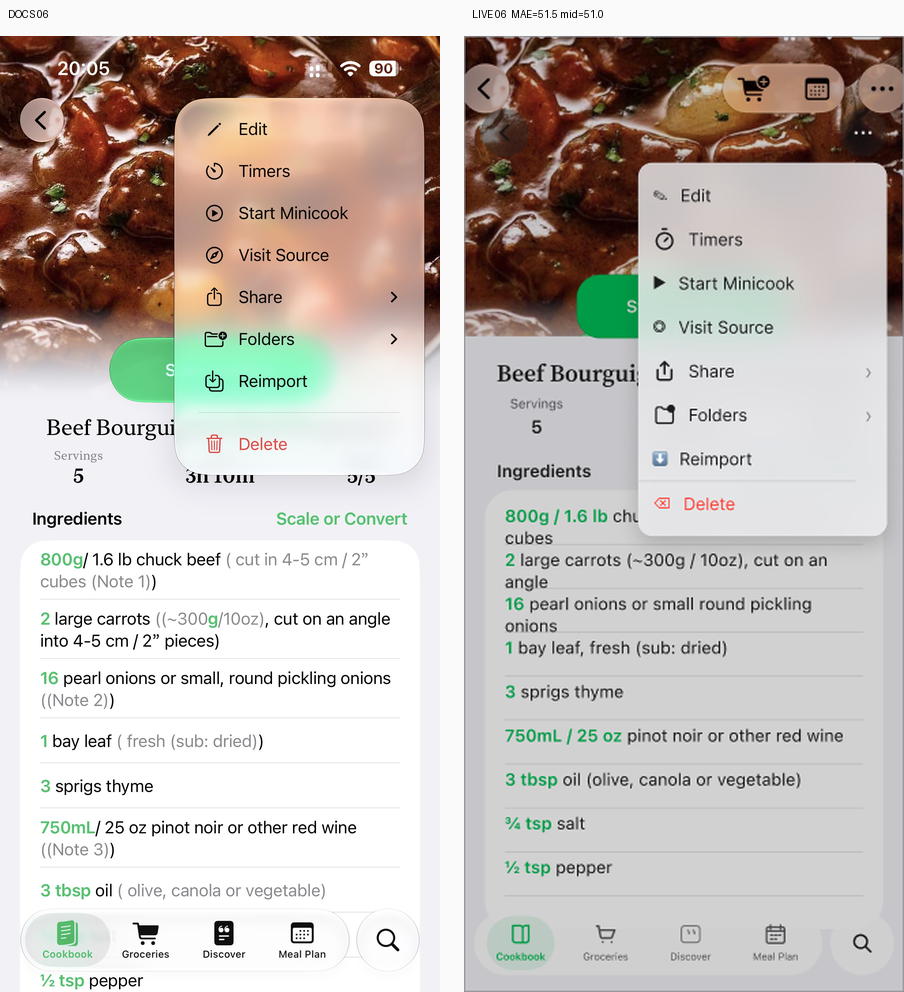
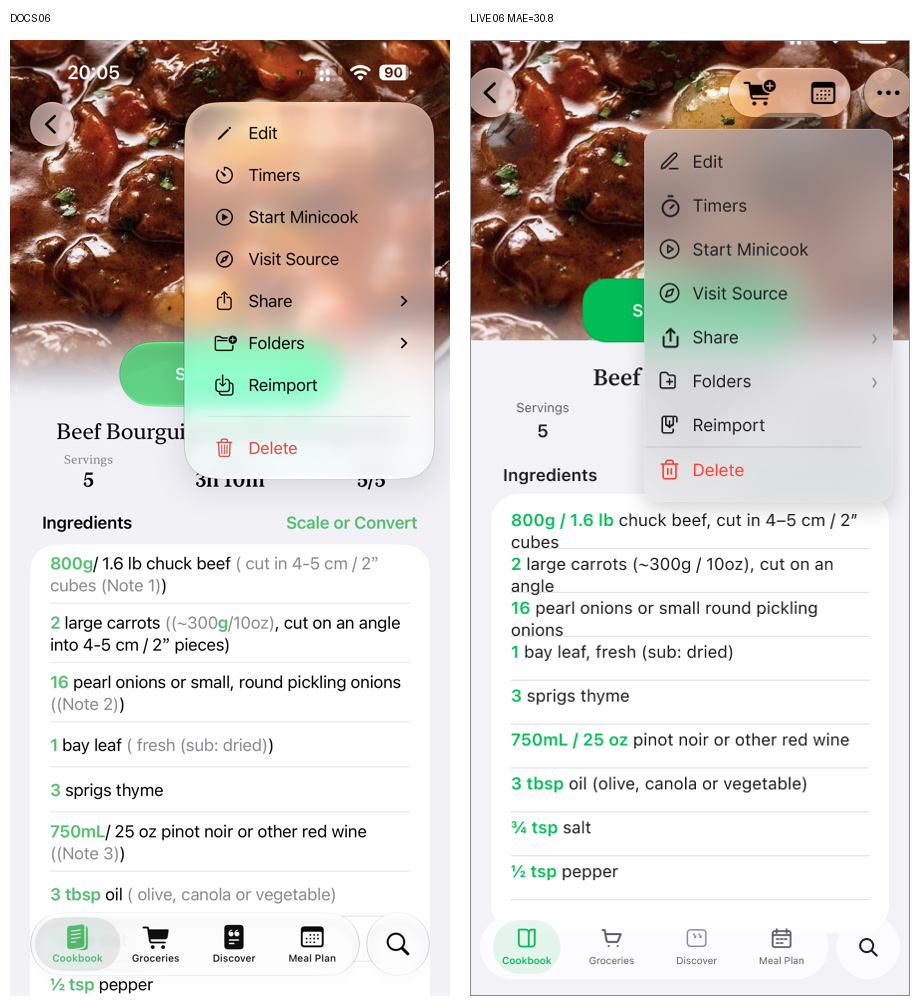
fix(figma): pass page 06 Recipe Menu vs docs menu-open SoT
Tighten Menu=Recipe glass/position and host chrome so frame 116:18396
matches recipe-detail-beef-bourguignon-menu-open.jpg (MAE 51.5→30.8).
Mark Issue #10 06 as PASS*; leave issue open.

diff --git a/docs/PAGE-FIX-CHECKLIST.md b/docs/PAGE-FIX-CHECKLIST.md
@@ -81,7 +81,7 @@
 | 03 | Meal Plan Prompt | `116:18239` | — | PENDING | No strong still. Rebuild prompt/sheet chrome; strip orphan scrap text. |
 | 04 | Cooking Steps | `116:18290` | `/tmp/cookapp-qa/cooking-final.png` | DONE | Instruction wrap fixed (forced breaks + fs **26**); MAE **9.28→7.98**; glassY **52**; Next **52**. |
 | 05 | Timer Form | `116:18318` | `/tmp/cookapp-qa/timer-final.png` | PENDING | ≈ref; glassY polish; picker selection band; Start green. |
-| 06 | Recipe Menu | `116:18396` | `/tmp/cursor/artifacts/w03_back_more_glass_after.png` | PENDING | Weak ref (inherits Detail). Menu overlay vs host Detail. |
+| 06 | Recipe Menu | `116:18396` | `docs/ui-screenshots/recipe-detail-beef-bourguignon-menu-open.jpg` | DONE | MAE **51.5→30.8** PASS*; Edit→Delete + red trash; glass blur50/op~0.48 @ y=88; host CartCalendarMore. |
 | 08 | Recently Added | `119:12665` | `/tmp/cookapp-shots/after/10-recent.png` | DONE | Single Beef @ y188; glassY **62** (header60+lead2); MSE≈2.5 vs `10-recent`. |
 | 09 | Main | `119:12726` | `/tmp/cookapp-shots/after/11-main.png` | DONE | Single Beef @ y188; glassY **62**; MSE≈1.1 vs `11-main`. |
 | 11 | Discover | `130:14331` | `/tmp/cursor/artifacts/w07_back_filter_glass_after.png` | DONE | Back+Filter glassY **62**; title 34@y58; feed matches w07; MSE≈1.7. |
